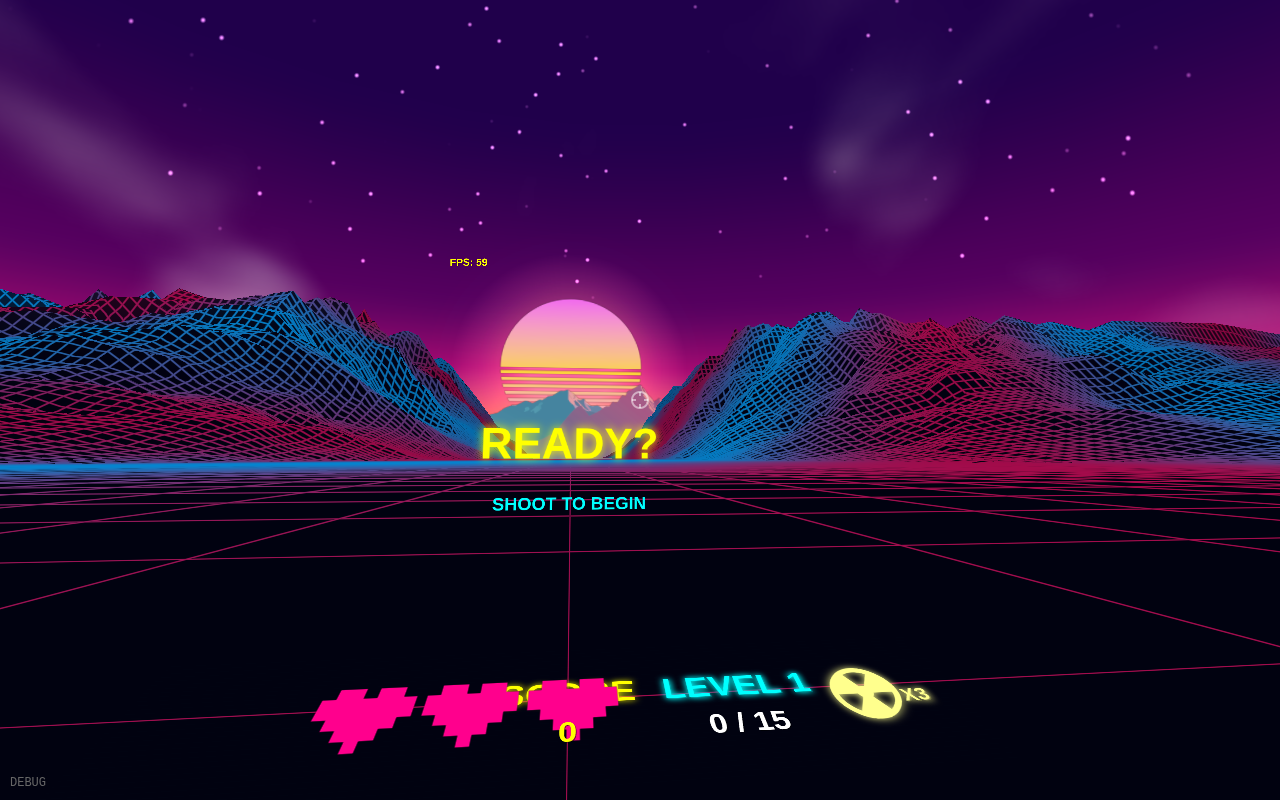
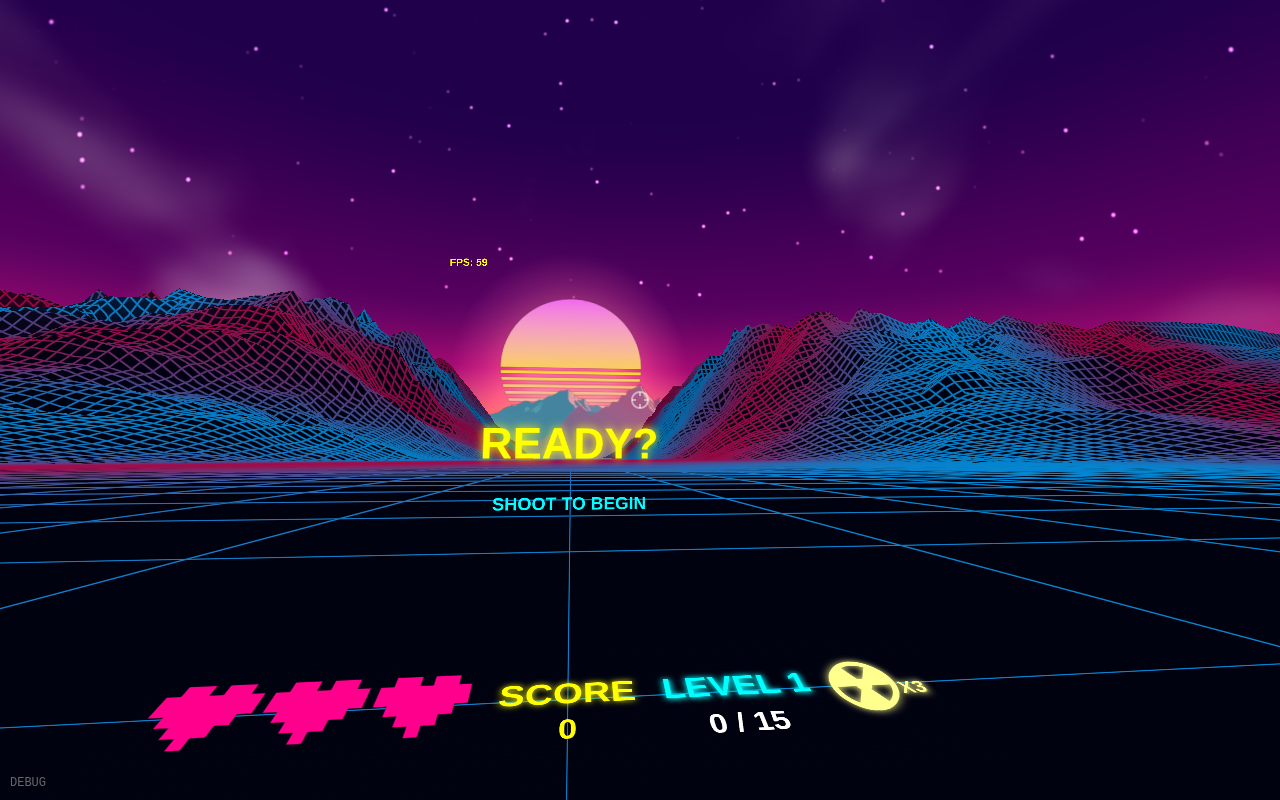
layout: apply floor HUD v13 from editor JSON - final layout

diff --git a/hud.js b/hud.js
@@ -924,14 +924,14 @@ function createHUDElements() {
   const heartsGeo = new THREE.PlaneGeometry(1.7875, 0.55);
   const heartsMat = new THREE.MeshBasicMaterial({ transparent: true, depthTest: true, depthWrite: false, side: THREE.DoubleSide });
   heartsSprite = new THREE.Mesh(heartsGeo, heartsMat);
-  heartsSprite.position.set(-1.44 + (1.7875 / 2), 0.48, 0.01);  // Left-aligned: offset by half width so left edge at -1.44
+  heartsSprite.position.set(-2.3 + (1.7875 / 2), 0.56, 0.01);  // Left-aligned: offset by half width so left edge at -2.3 (v13)
   heartsSprite.renderOrder = 999;
   hudGroup.add(heartsSprite);
 
   // SCORE - center-left on floor with title above
   // Layout: Spread from hearts, number centered under SCORE title
   scoreSprite = makeSprite('0', { fontSize: 72, color: '#ffff00', shadow: true, scale: 0.45 });
-  scoreSprite.position.set(0, 0.3, 0.01);  // Centered under SCORE title
+  scoreSprite.position.set(0, 0.32, 0.01);  // Centered under SCORE title (v13)
   hudGroup.add(scoreSprite);
 
   // SCORE title - above score in yellow same style as level
@@ -953,18 +953,18 @@ function createHUDElements() {
 
   // Nuke counter — far right, top row; emoji 2x size, count text normal
   nukeEmojiSprite = makeSprite('☢', { fontSize: 144, color: '#ffff44', glow: true, glowColor: '#ffff44', scale: 0.9 });
-  nukeEmojiSprite.position.set(1.8, 0.44, 0.01);  // Far right
+  nukeEmojiSprite.position.set(1.82, 0.5, 0.01);  // Far right (v13)
   hudGroup.add(nukeEmojiSprite);
   nukeCountSprite = makeSprite('X3', { fontSize: 72, color: '#ffff44', glow: true, glowColor: '#ffff44', scale: 0.35 });
-  nukeCountSprite.position.set(2.1, 0.44, 0.01);  // Far right
+  nukeCountSprite.position.set(2.12, 0.5, 0.01);  // Far right (v13)
   hudGroup.add(nukeCountSprite);
 
   // Accuracy bonus — center, just below main HUD row
   // Y=-0.45 keeps it close to the SCORE/LEVEL row (Y=0.3) without overlap
   // NOTE: combo_text uses center-aligned geometry; left-alignment would require
   // updating position each frame since text width varies with the accuracy multiplier.
-  comboSprite = makeSprite('1x', { fontSize: 40, color: '#ff8800', shadow: true, scale: 0.2 });
-  comboSprite.position.set(-1.88, 0.02, 0.01);  // Left side, below hearts
+  comboSprite = makeSprite('1x', { fontSize: 40, color: '#ff8800', shadow: true, scale: 0.25 });
+  comboSprite.position.set(-2.26, 0.1, 0.01);  // Left side, below hearts (v13)
   comboSprite.visible = false;
   hudGroup.add(comboSprite);
 
@@ -974,7 +974,7 @@ function createHUDElements() {
   cooldownGeo.translate(0.825, 0, 0); // shift right by half width for left-edge pivot
   const cooldownMat = new THREE.MeshBasicMaterial({ color: 0xff8800, transparent: true, opacity: 0.8 });
   comboCooldownSprite = new THREE.Mesh(cooldownGeo, cooldownMat);
-  comboCooldownSprite.position.set(-1.42, 0.12, 0.01);  // Left side, below combo text
+  comboCooldownSprite.position.set(-1.377, 0.21, 0.01);  // Left side, below combo text (v13)
   comboCooldownSprite.visible = false;
   hudGroup.add(comboCooldownSprite);
 }
@@ -1188,7 +1188,7 @@ export function updateHUD(gameState) {
     comboSprite.visible = true;
     comboCooldownSprite.visible = true;
     const accuracyMult = (game.accuracyMultiplier || 1).toFixed(1);
-    updateSpriteText(comboSprite, `${accuracyMult}X ACCURACY BONUS`, { color: '#ff8800', scale: 0.2 });
+    updateSpriteText(comboSprite, `${accuracyMult}X ACCURACY BONUS`, { color: '#ff8800', scale: 0.25 });
 
     // Update bonus meter
     const remainingRatio = Math.max(0, Math.min(1, accuracyBonus / 100));
